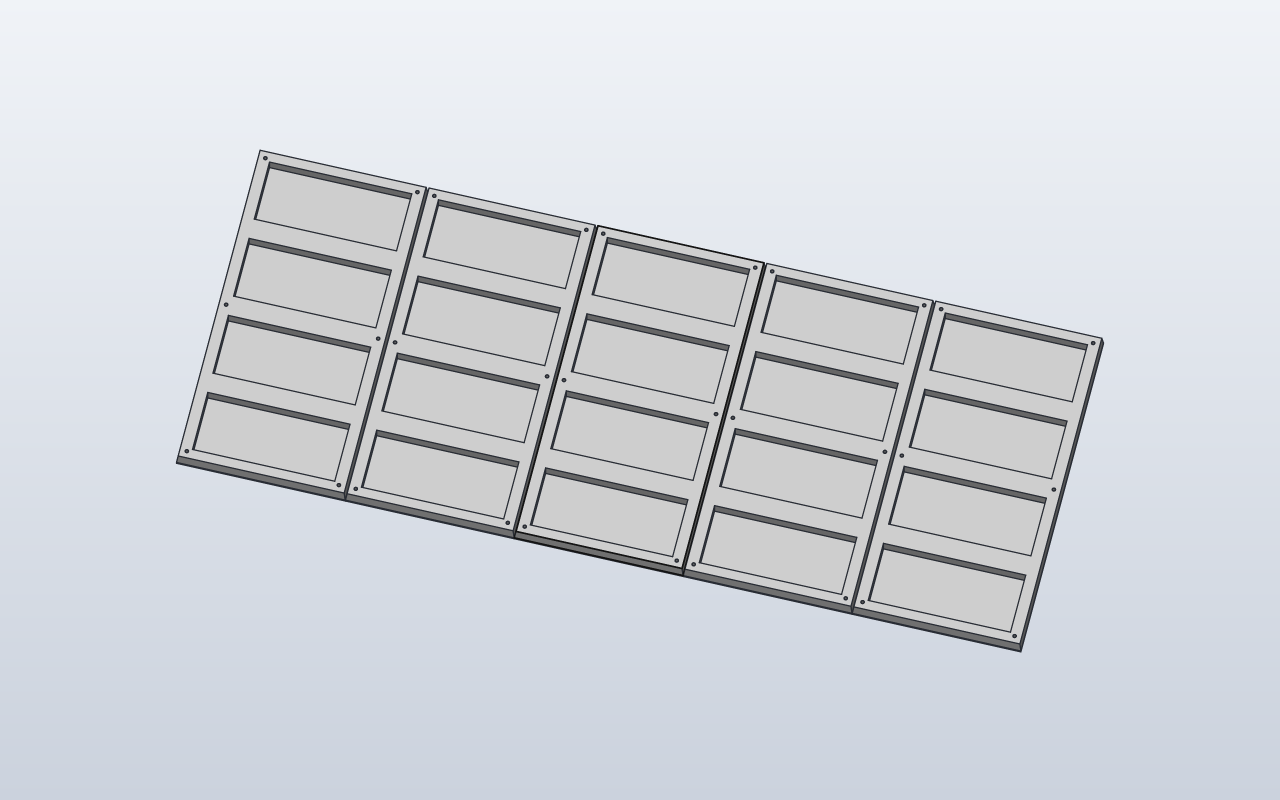
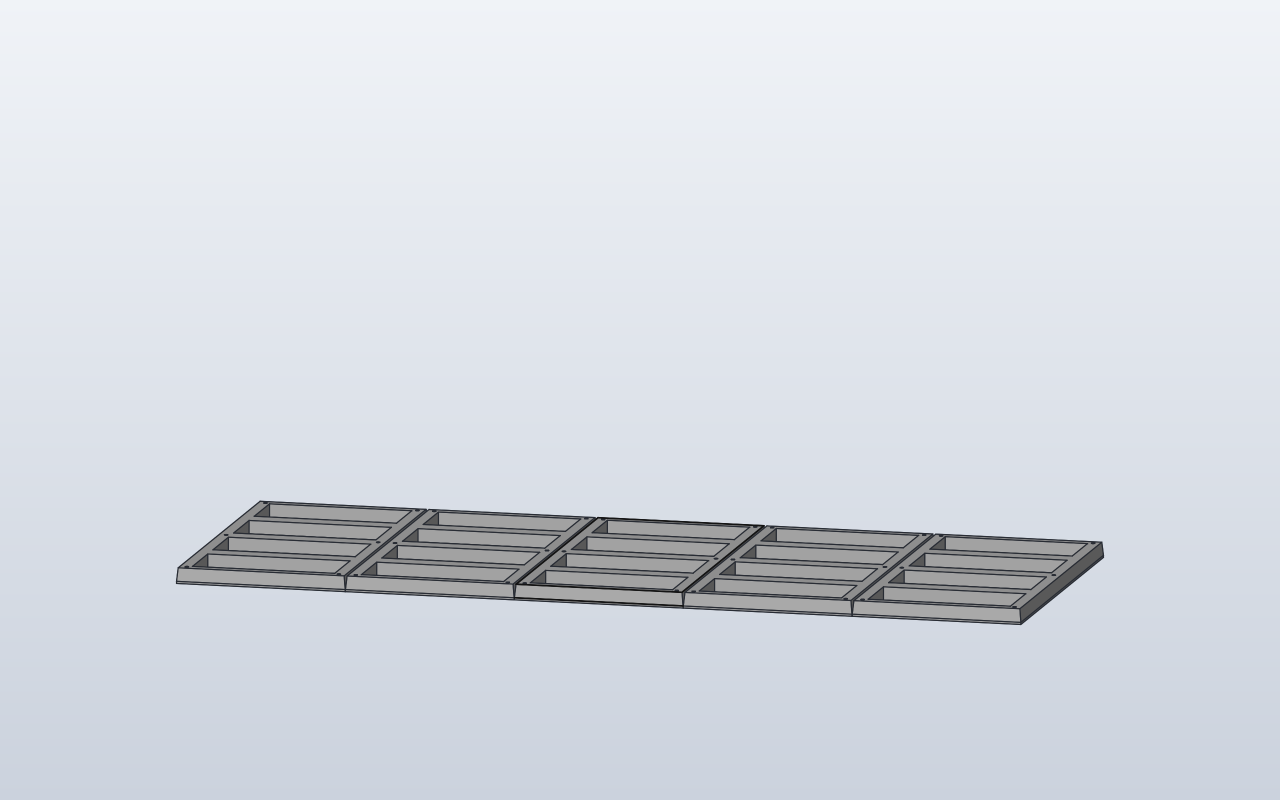
Verified SolidCraft CAD website at 138d0b463b73d94bb329ec801a0d7ecd9d095e87 138d0b463b73d94bb329ec801a0d7ecd9d095e87

diff --git a/models/hub75-screen/index.html b/models/hub75-screen/index.html
@@ -11,7 +11,7 @@
 <section class="hero cad-hero"><div class="wrap"><div class="eyebrow">CAD design / hub75-screen</div>
 <h1>BasicHub75Screen</h1><p>Five shared native HUB75 occurrences with two 180° rotations</p></div></section>
 <main class="wrap"><div class="metadata"><span class="badge verified">Native verified · snapshot from matching run</span>
-<span class="badge">45 commands</span><span class="badge">Five 159.70 × 319.71 × 14.50 mm panels; X pitch 160 mm</span></div>
+<span class="badge">48 commands</span><span class="badge">Five 159.70 × 319.71 × 14.50 mm panels; X pitch 160 mm</span></div>
 <div class="two model-preview-layout"><section class="panel"><h2>Model preview</h2><div class="picture"><a class="preview-fullsize" href="native.png" target="_blank" rel="noopener noreferrer" aria-label="Open native CAD screenshot at full size"><img src="native.png" alt="Native SolidCraft CAD model, full-size image available"></a></div>
 <p class="small muted">Native SolidCraft image, matching this source revision. Click to view full size.</p>
 <p>Five panels on the source project&#x27;s 800 × 320 mm nominal grid. One rear-tapered, four-bay panel component is reused at X=−320, −160, 0, 160 and 320 mm. Columns 2 and 4 rotate 180° about the local depth axis for the rear data chain. R5 corners, detailed rear reinforcements, PCB and connectors remain future phases.</p></section>
@@ -20,35 +20,52 @@
 </div>
 <p class="small muted">Command JSON describes CAD actions; it is not an already-saved .sc design.</p>
 <h3>Construction stages</h3><ol><li>Create the reusable tapered HUB75 component</li><li>Make six blind M3 rear bores and assign material once</li><li>Ground the middle occurrence at X=0</li><li>Place four copies on the 160 mm nominal grid</li><li>Rotate the alternating copies around Z by 180°</li><li>Verify five saved native occurrences</li></ol></section></div>
-<h2>Python model</h2><pre><code>&quot;&quot;&quot;Basic five-panel array copied from the OpenSCAD v1.2 placement rules.
+<h2>Python model</h2><pre><code>&quot;&quot;&quot;Five physically upright HUB75 panels in the XZ display plane.
 
-SCPF coordinates: X horizontal, Y panel vertical, Z front-to-rear.
-The OpenSCAD 180-degree Y rotation maps to a 180-degree Z rotation.
-From rear left to right: chain numbers 5,4,3,2,1, input top/bottom
-alternating TOP, BOTTOM, TOP, BOTTOM, TOP.
+World coordinates (shared with the wooden-frame project):
+    X: left/right along the display
+    Y: front/rear panel depth (front face at Y=0, rear at Y=-14.5)
+    Z: vertical, up
+
+The detailed Hub75Panel component is authored in its native XY plane with
+its depth along +Z. Rotate each occurrence +90 degrees around X to stand
+it upright. Alternating panels require one composed absolute axis-angle
+rotation (180 degrees about [0, 1, -1]); SCPF currently replaces,
+rather than composes, consecutive rotate() calls.
+All occurrence rotations happen BEFORE their horizontal placement.
 &quot;&quot;&quot;
 from scpf import component
 from components.hub75 import Hub75Panel as Hub75PanelDefinition
 
 Hub75Panel = component(Hub75PanelDefinition)
 
+
 class BasicHub75Screen:
     nominal_pitch_x = 160.0
     nominal_height = 320.0
 
     def build(self):
-        # The first occurrence stays at world X=0 (middle column).
-        # occurrence.copy inherits its source transform, so a first
-        # occurrence at -320 mm would cause double-offset copies.
-        central = Hub75Panel()
+        # The native panel has its display face in XY and its rear in +Z.
+        # Rotate to XZ so the 319.71 mm long side points upwards in world Z.
+        # Keep the master at X=0: copies inherit the master&#x27;s transformation.
+        central = Hub75Panel().rotate(axis=(1, 0, 0), degrees=90)
         screen = central
+
         for index in (0, 1, 3, 4):
             x = (index - 2) * self.nominal_pitch_x
-            occurrence = central.copy().move(x=x)
+            occurrence = central.copy()
             if index in (1, 3):
-                occurrence = occurrence.rotate(axis=(0, 0, 1), degrees=180)
+                # Compose the upright X+90 and world Y+180 rotations as ONE
+                # axis-angle: 180 degrees about (0, 1, -1). The current SCPF
+                # rotate() sets, rather than composes, an orientation; a
+                # second rotate(axis=Y) would discard the upright X rotation.
+                occurrence = occurrence.rotate(axis=(0, 1, -1), degrees=180)
+            # Apply placement last to avoid rotating the column offset.
+            occurrence = occurrence.move(x=x)
             screen = screen + occurrence
+
         return screen
+
 
 BasicHub75Screen()
 </code></pre>
@@ -464,6 +481,26 @@ BasicHub75Screen()
     &quot;component&quot;: &quot;root&quot;
   }
 }</code></pre></li>
+<li><strong>Move component occurrence</strong><small>occurrence.move</small><pre><code>{
+  &quot;command&quot;: &quot;occurrence.move&quot;,
+  &quot;params&quot;: {
+    &quot;occurrence&quot;: &quot;Hub75Panel:1&quot;,
+    &quot;to&quot;: {
+      &quot;position&quot;: [
+        0.0,
+        0.0,
+        0.0
+      ],
+      &quot;axis&quot;: [
+        1.0,
+        0.0,
+        0.0
+      ],
+      &quot;angle&quot;: &quot;90 deg&quot;
+    },
+    &quot;move_grounded&quot;: true
+  }
+}</code></pre></li>
 <li><strong>Copy component occurrence</strong><small>occurrence.copy</small><pre><code>{
   &quot;command&quot;: &quot;occurrence.copy&quot;,
   &quot;params&quot;: {
@@ -473,6 +510,25 @@ BasicHub75Screen()
       0.0,
       0.0
     ]
+  }
+}</code></pre></li>
+<li><strong>Move component occurrence</strong><small>occurrence.move</small><pre><code>{
+  &quot;command&quot;: &quot;occurrence.move&quot;,
+  &quot;params&quot;: {
+    &quot;occurrence&quot;: &quot;Hub75Panel:2&quot;,
+    &quot;to&quot;: {
+      &quot;position&quot;: [
+        -320.0,
+        0.0,
+        0.0
+      ],
+      &quot;axis&quot;: [
+        1.0,
+        0.0,
+        0.0
+      ],
+      &quot;angle&quot;: &quot;90 deg&quot;
+    }
   }
 }</code></pre></li>
 <li><strong>Copy component occurrence</strong><small>occurrence.copy</small><pre><code>{
@@ -498,8 +554,8 @@ BasicHub75Screen()
       ],
       &quot;axis&quot;: [
         0.0,
-        0.0,
-        1.0
+        1.0,
+        -1.0
       ],
       &quot;angle&quot;: &quot;180 deg&quot;
     }
@@ -528,8 +584,8 @@ BasicHub75Screen()
       ],
       &quot;axis&quot;: [
         0.0,
-        0.0,
-        1.0
+        1.0,
+        -1.0
       ],
       &quot;angle&quot;: &quot;180 deg&quot;
     }
@@ -544,6 +600,25 @@ BasicHub75Screen()
       0.0,
       0.0
     ]
+  }
+}</code></pre></li>
+<li><strong>Move component occurrence</strong><small>occurrence.move</small><pre><code>{
+  &quot;command&quot;: &quot;occurrence.move&quot;,
+  &quot;params&quot;: {
+    &quot;occurrence&quot;: &quot;Hub75Panel:5&quot;,
+    &quot;to&quot;: {
+      &quot;position&quot;: [
+        320.0,
+        0.0,
+        0.0
+      ],
+      &quot;axis&quot;: [
+        1.0,
+        0.0,
+        0.0
+      ],
+      &quot;angle&quot;: &quot;90 deg&quot;
+    }
   }
 }</code></pre></li></ol></section>
 <div class="notice"><strong>Verification:</strong> Native verified · snapshot from matching run.

diff --git a/index.html b/index.html
@@ -59,7 +59,7 @@
 <h3>2 · Compile commands</h3><p>SCPF outputs native SolidCraft commands, with named parameters and a sequence of CAD operations.</p></section>
 <section class="panel"><h3>3 · Execute in SolidCraft</h3><p>The SolidCraft engine creates editable geometry, and CI validates its results. CAD and verification assets are only published when they match the source revision.</p>
 <h3>4 · Inspect the result</h3><p>Review the command timeline, native measurements and optional rendered preview. An unverified model is labelled as such.</p></section></div>
-<p class="small muted">CAD source revision: <code>09189dc736001757b2481fc6ee58b12ef04601ef</code><br>
+<p class="small muted">CAD source revision: <code>138d0b463b73d94bb329ec801a0d7ecd9d095e87</code><br>
 SCPF library revision: <a href="https://github.com/brainboxemb/lib.py.solidcraft/commit/1594757308c635a989be86668ebf7d042c8f29b9"><code>1594757308c635a989be86668ebf7d042c8f29b9</code></a></p></main><footer><div class="wrap"><strong>SolidCraft CAD</strong> renders and verifies the real geometry.
 <a href="https://brainboxemb.github.io/lib.py.solidcraft/">SCPF examples &amp; cheatsheet →</a></div></footer>
 </body></html>

diff --git a/models/hub75-screen/model.py b/models/hub75-screen/model.py
@@ -1,31 +1,48 @@
-"""Basic five-panel array copied from the OpenSCAD v1.2 placement rules.
+"""Five physically upright HUB75 panels in the XZ display plane.
 
-SCPF coordinates: X horizontal, Y panel vertical, Z front-to-rear.
-The OpenSCAD 180-degree Y rotation maps to a 180-degree Z rotation.
-From rear left to right: chain numbers 5,4,3,2,1, input top/bottom
-alternating TOP, BOTTOM, TOP, BOTTOM, TOP.
+World coordinates (shared with the wooden-frame project):
+    X: left/right along the display
+    Y: front/rear panel depth (front face at Y=0, rear at Y=-14.5)
+    Z: vertical, up
+
+The detailed Hub75Panel component is authored in its native XY plane with
+its depth along +Z. Rotate each occurrence +90 degrees around X to stand
+it upright. Alternating panels require one composed absolute axis-angle
+rotation (180 degrees about [0, 1, -1]); SCPF currently replaces,
+rather than composes, consecutive rotate() calls.
+All occurrence rotations happen BEFORE their horizontal placement.
 """
 from scpf import component
 from components.hub75 import Hub75Panel as Hub75PanelDefinition
 
 Hub75Panel = component(Hub75PanelDefinition)
 
+
 class BasicHub75Screen:
     nominal_pitch_x = 160.0
     nominal_height = 320.0
 
     def build(self):
-        # The first occurrence stays at world X=0 (middle column).
-        # occurrence.copy inherits its source transform, so a first
-        # occurrence at -320 mm would cause double-offset copies.
-        central = Hub75Panel()
+        # The native panel has its display face in XY and its rear in +Z.
+        # Rotate to XZ so the 319.71 mm long side points upwards in world Z.
+        # Keep the master at X=0: copies inherit the master's transformation.
+        central = Hub75Panel().rotate(axis=(1, 0, 0), degrees=90)
         screen = central
+
         for index in (0, 1, 3, 4):
             x = (index - 2) * self.nominal_pitch_x
-            occurrence = central.copy().move(x=x)
+            occurrence = central.copy()
             if index in (1, 3):
-                occurrence = occurrence.rotate(axis=(0, 0, 1), degrees=180)
+                # Compose the upright X+90 and world Y+180 rotations as ONE
+                # axis-angle: 180 degrees about (0, 1, -1). The current SCPF
+                # rotate() sets, rather than composes, an orientation; a
+                # second rotate(axis=Y) would discard the upright X rotation.
+                occurrence = occurrence.rotate(axis=(0, 1, -1), degrees=180)
+            # Apply placement last to avoid rotating the column offset.
+            occurrence = occurrence.move(x=x)
             screen = screen + occurrence
+
         return screen
+
 
 BasicHub75Screen()
